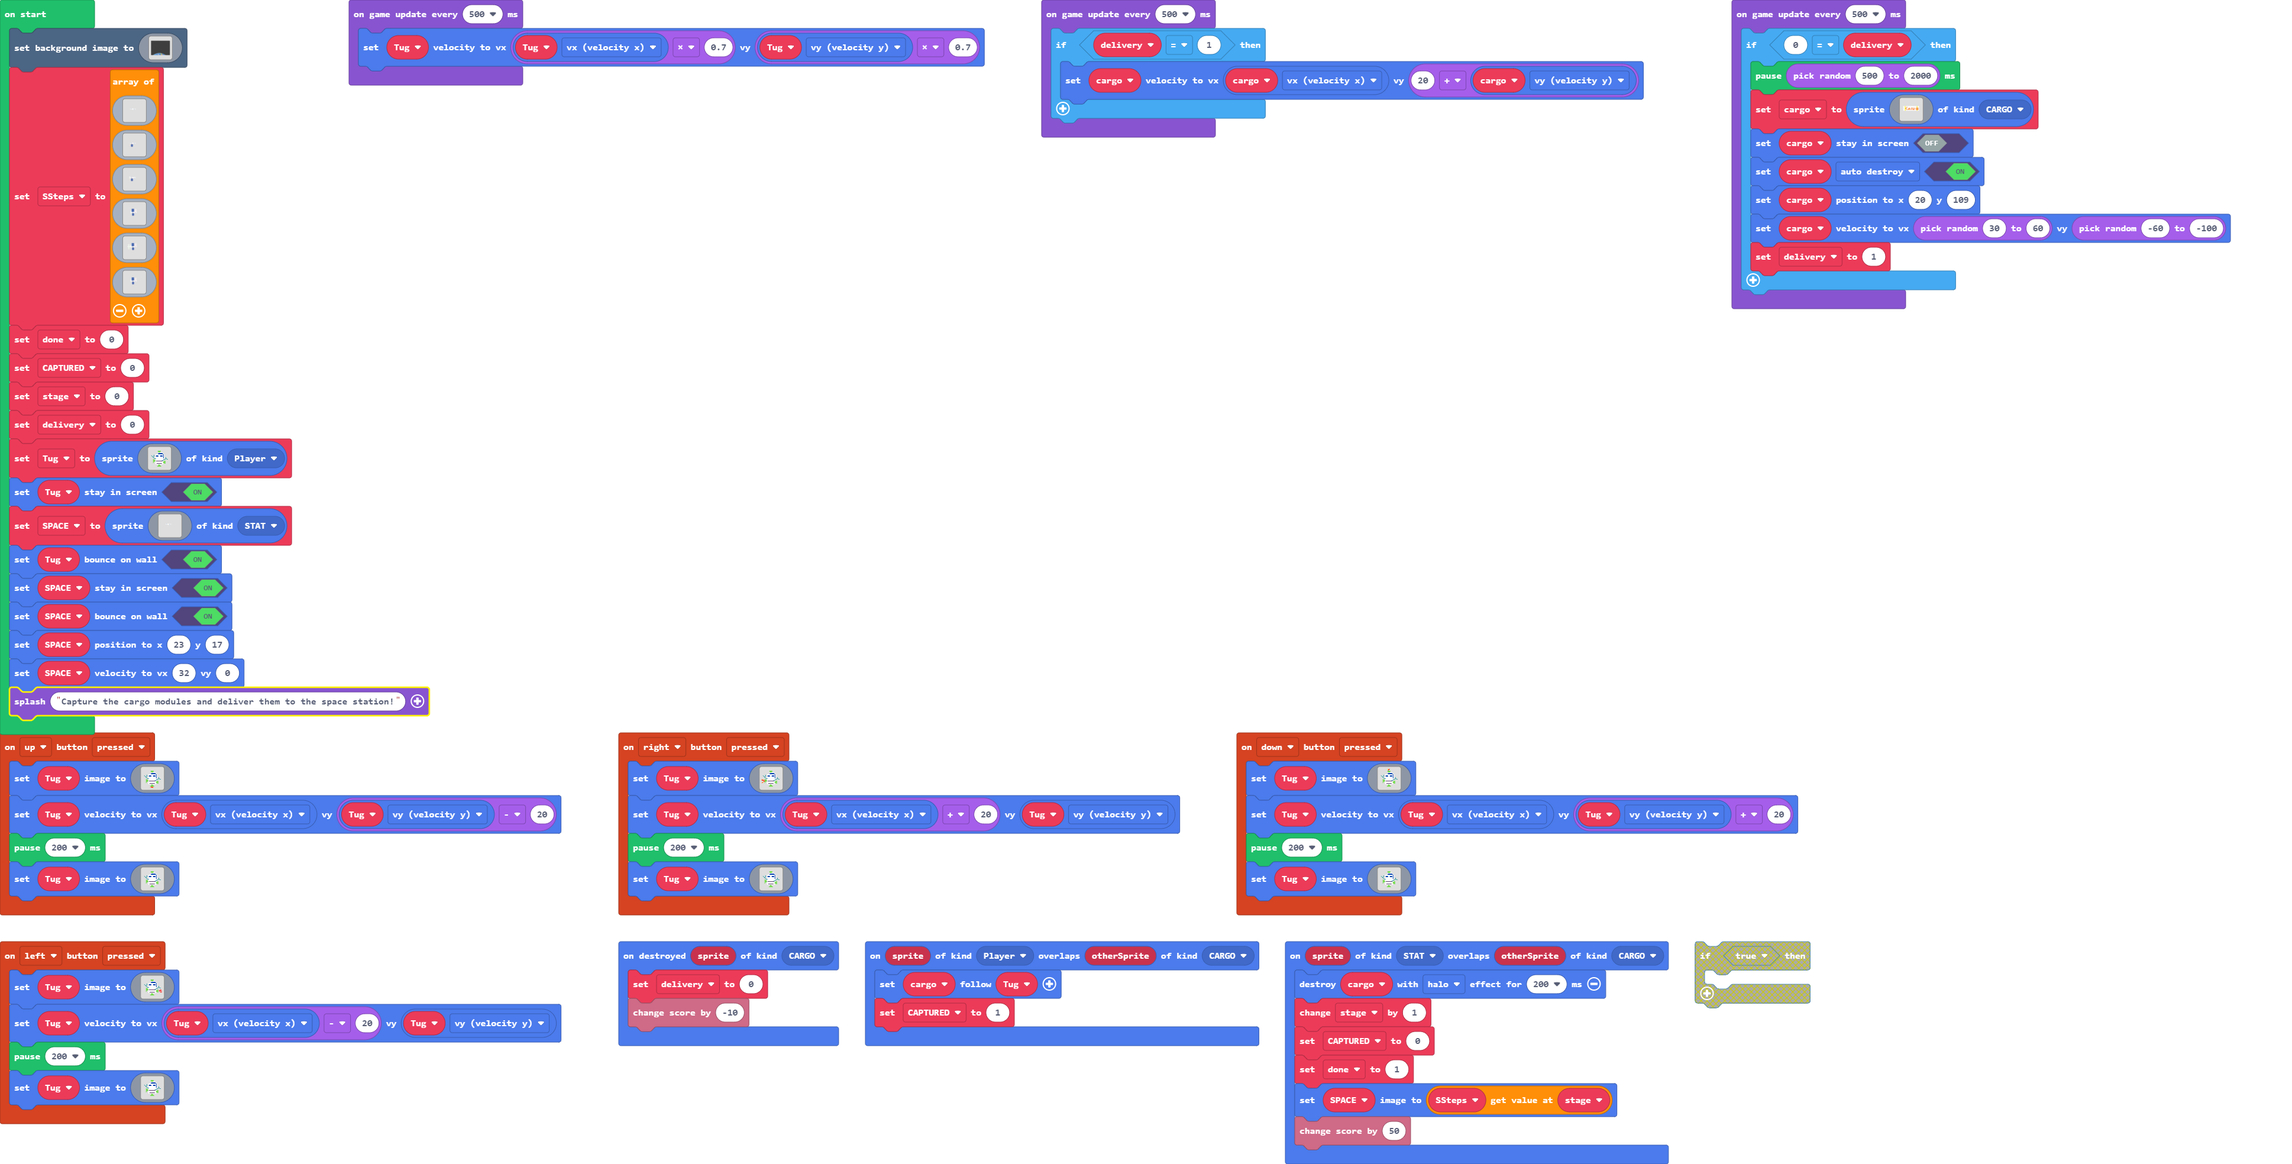
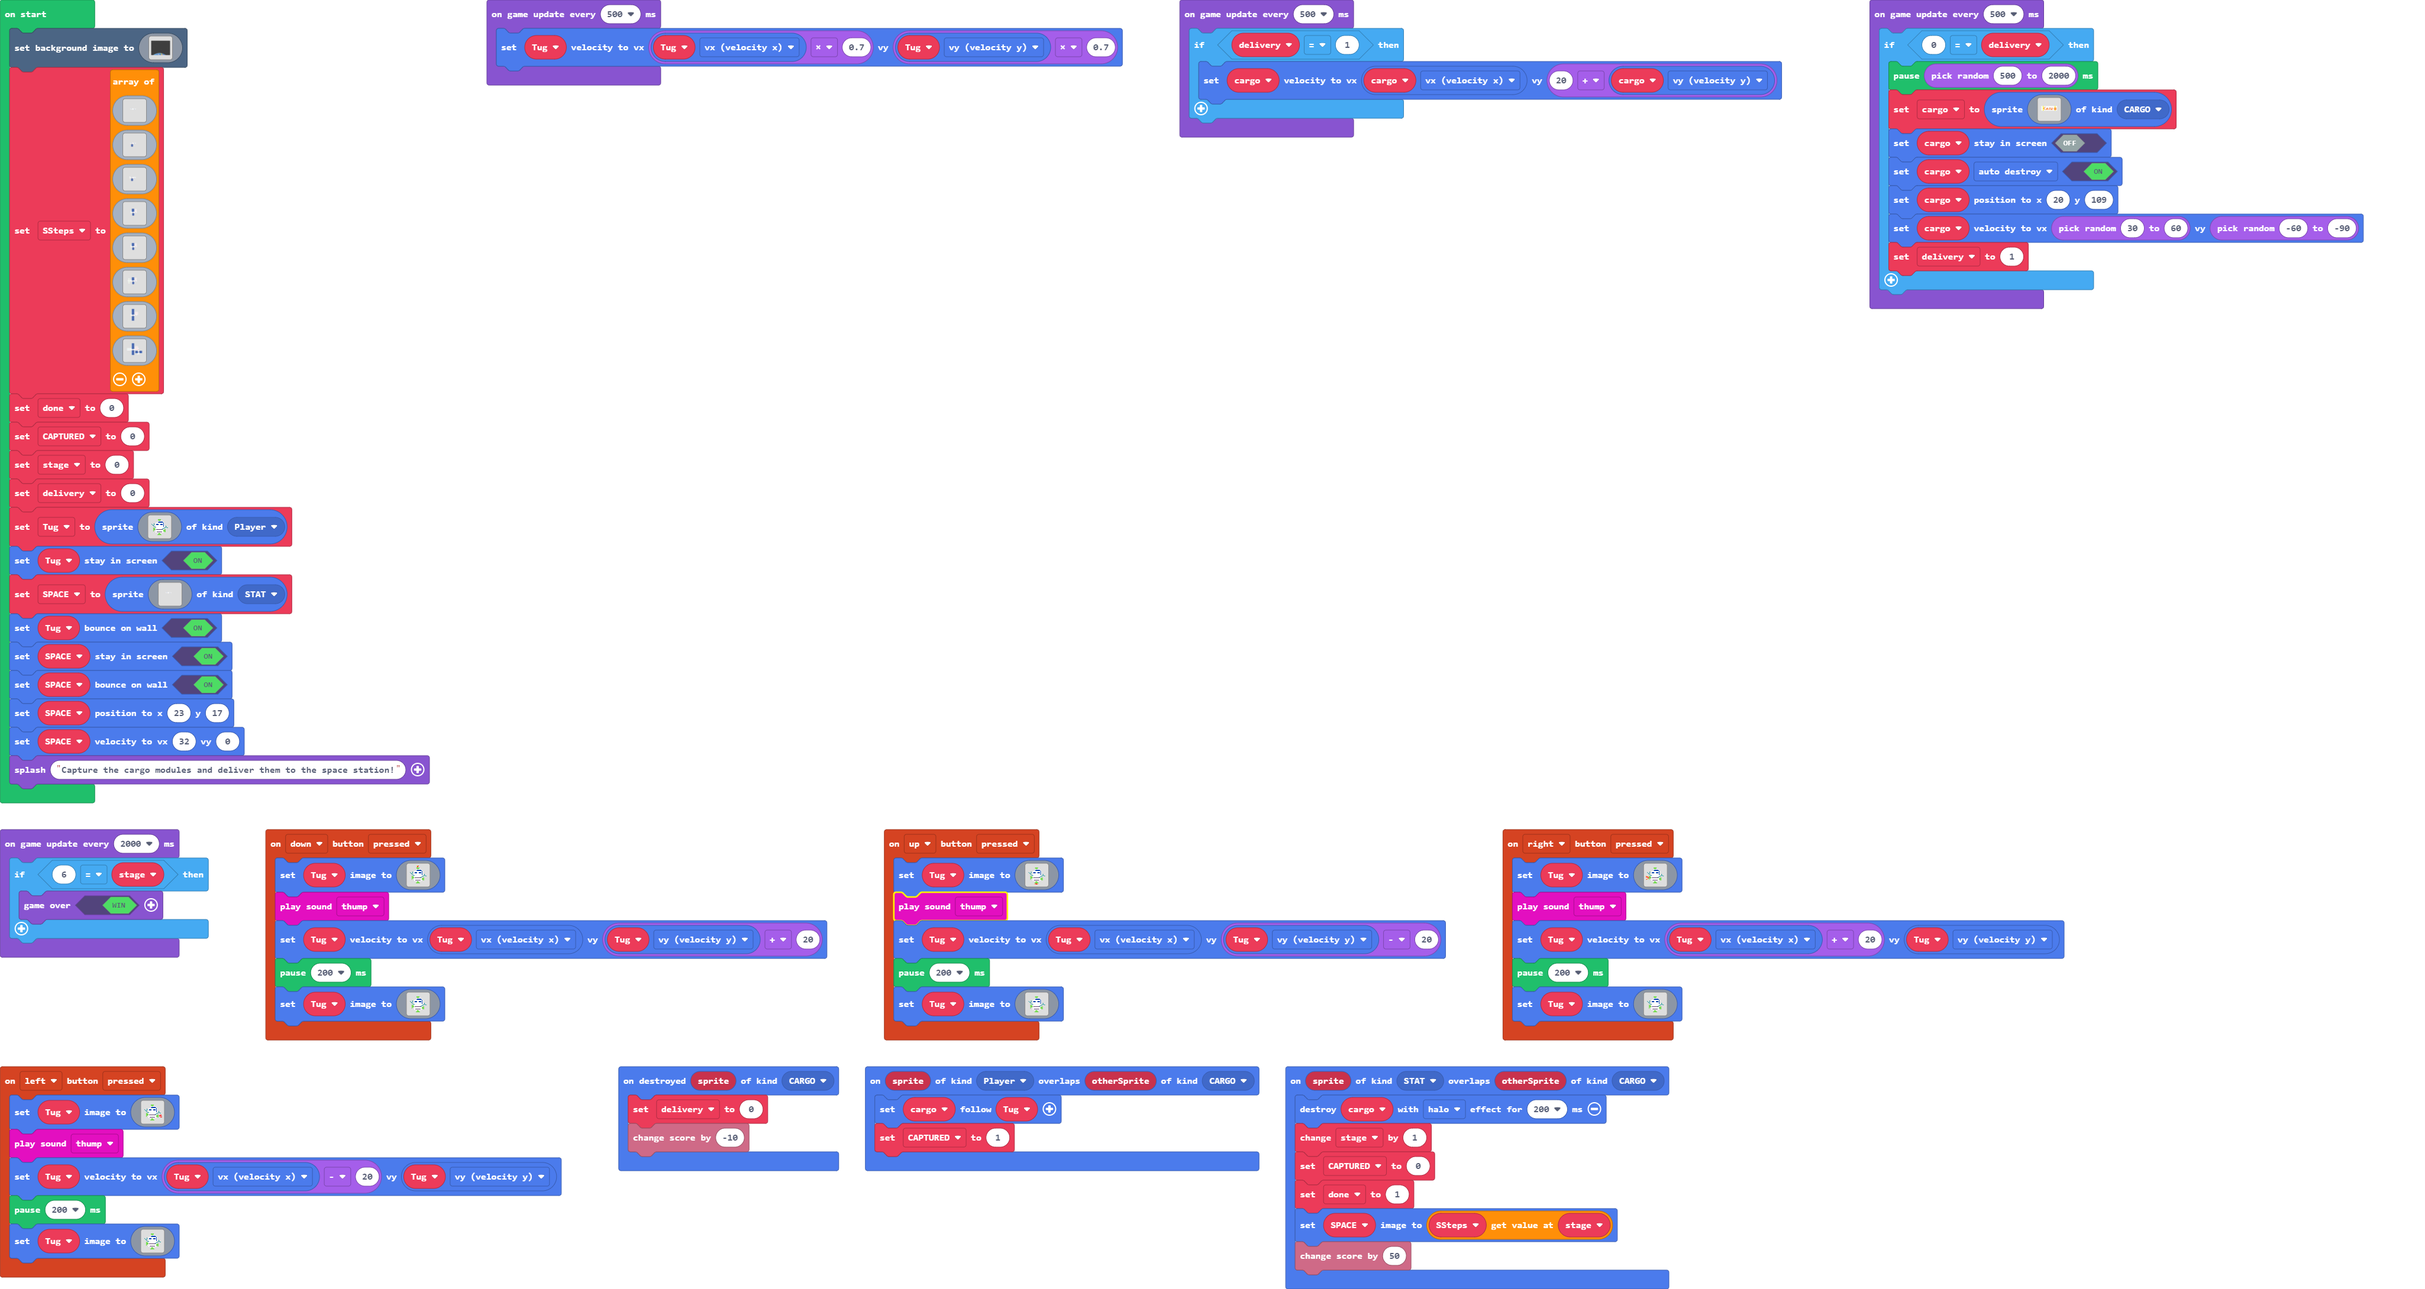
Update main.blocks, main.ts, images.g.jres, images.g.ts

Changed region(s): [[0.0, 0.0, 0.8743, 1.0], [0.1249, 0.0, 0.9992, 0.279]]

diff --git a/images.g.ts b/images.g.ts
@@ -108,102 +108,6 @@ namespace myImages {
 ..................................................
 ..................................................
 `;
-            case "image5":
-            case "SpaceStation3":return img`
-..................................................
-..................................................
-..................................................
-..................................................
-..................................................
-..................................................
-.....................3............................
-..................................................
-..................................................
-..................................................
-..................................................
-..................888c88..........................
-..................888c88..1111....................
-..................888c88..1211....................
-.........111......888c88..1111....................
-.........111......888c88..1111....................
-.........171......888c88..1211....................
-.........111...11.888c88..1111....................
-.........111..111.888c88..1111....................
-.......111111111111811111112111...................
-.......111711111111111111111111...................
-.........111..111....c11111811....................
-.........111...11....c............................
-.........111.......88c88..........................
-.........171.......88c88..........................
-.........111.......88c88..........................
-.........111.......88c88..........................
-...................88c88..........................
-...................88c88..........................
-.....................c............................
-..................................................
-..................................................
-..................................................
-..................................................
-..................................................
-..................................................
-..................................................
-..................................................
-..................................................
-..................................................
-..................................................
-..................................................
-..................................................
-..................................................
-..................................................
-`;
-            case "image6":
-            case "SpaceStation4":return img`
-..................................................
-..................................................
-..................................................
-..................................................
-..................................................
-..................................................
-..................................................
-..................................................
-..................................................
-..................................................
-..................................................
-..................888c88..........................
-..................888c88..1111....................
-..................888c88..1211....................
-..................888c88..1111....................
-..................888c88..1111....................
-..................888c88..1211....................
-...............11.888c88..1111....................
-...............11.888c88..1111....................
-...............1111811111112111...................
-...............1111111111111111...................
-...............11....c11111811....................
-...............11....c............................
-...................88c88..........................
-...................88c88..........................
-...................88c88..........................
-...................88c88..........................
-...................88c88..........................
-...................88c88..........................
-.....................c............................
-..................................................
-..................................................
-..................................................
-..................................................
-..................................................
-..................................................
-..................................................
-..................................................
-..................................................
-..................................................
-..................................................
-..................................................
-..................................................
-..................................................
-..................................................
-`;
             case "image7":
             case "myImage":return img`
 .......................
@@ -416,6 +320,198 @@ namespace myImages {
 ........................
 ........................
 ........................
+`;
+            case "image6":
+            case "SpaceStation5":return img`
+..................................................
+..................................................
+..................................................
+..................................................
+..................888c88..........................
+..................888c88..........................
+..................888c88..........................
+..................888c88..........................
+..................888c88..........................
+..................888c88..........................
+..................888c88..........................
+..................888c88..........................
+..................888c88..11111111................
+..................888c88..12111211................
+..................888c88..11111111................
+..................888c88..11111111................
+..................888c88..12111211................
+...............11.888c88..11111111................
+...............11.888c88..11111111................
+...............1111811111112111...................
+...............1111111111111111...................
+...............11....c11111811....................
+...............11....c............................
+..................888c88..........................
+..................888c88..........................
+..................888c88..........................
+..................888c88..........................
+..................888c88..........................
+..................888c88..........................
+..................888c88..........................
+..................888c88..........................
+..................888c88..........................
+..................888c88..........................
+..................888c88..........................
+..................888c88..........................
+..................................................
+..................................................
+..................................................
+..................................................
+..................................................
+..................................................
+..................................................
+..................................................
+..................................................
+..................................................
+`;
+            case "image14":
+            case "SpaceStation4":return img`
+..................................................
+..................................................
+..................................................
+..................................................
+..................................................
+..................................................
+..................................................
+..................................................
+..................................................
+..................................................
+..................................................
+..................888c88..........................
+..................888c88..1111....................
+..................888c88..1211....................
+..................888c88..1111....................
+..................888c88..1111....................
+..................888c88..1211....................
+...............11.888c88..1111....................
+...............11.888c88..1111....................
+...............1111811111112111...................
+...............1111111111111111...................
+...............11....c11111811....................
+...............11....c............................
+...................88c88..........................
+...................88c88..........................
+...................88c88..........................
+...................88c88..........................
+...................88c88..........................
+...................88c88..........................
+.....................c............................
+..................................................
+..................................................
+..................................................
+..................................................
+..................................................
+..................................................
+..................................................
+..................................................
+..................................................
+..................................................
+..................................................
+..................................................
+..................................................
+..................................................
+..................................................
+`;
+            case "image15":
+            case "SpaceStation6":return img`
+..................................................
+..................................................
+..................................................
+..................................................
+..................888c88..........................
+..................888c88..........................
+..................888c88..........................
+..................888c88..........................
+..................888c88..........................
+..................888c88..........................
+..................888c88..........................
+..................888c88..........................
+..................888c88..11111111................
+..................888c88..12111211................
+..................888c88..11111111................
+..................888c88..11111111................
+..................888c88..11211211................
+.....111111111111.888c88..1111111111..............
+.....111111111111.888c88..11111111111.............
+.....16116116111111811111111111111111.............
+.....11111111111111111111111211211218.............
+.....111111111111....c111111111111111.............
+.....111111111111....c............111.............
+..................888c88..........111.............
+..................888c88...8888888111.8888888.....
+..................888c88...8888888111.8888888.....
+..................888c88...ccccccc11ccccccccc.....
+..................888c88...888888811..8888888.....
+..................888c88...888888881..8888888.....
+..................888c88...888888811..8888888.....
+..................888c88..........11..............
+..................888c88........111111............
+..................888c88........111111............
+..................888c88..........................
+..................888c88..........................
+..................................................
+..................................................
+..................................................
+..................................................
+..................................................
+..................................................
+..................................................
+..................................................
+..................................................
+..................................................
+`;
+            case "image5":
+            case "SpaceStation3":return img`
+..................................................
+..................................................
+..................................................
+..................................................
+..................................................
+..................................................
+..................................................
+..................................................
+..................................................
+..................................................
+..................................................
+..................888c88..........................
+..................888c88..1111....................
+..................888c88..1211....................
+.........111......888c88..1111....................
+.........111......888c88..1111....................
+.........171......888c88..1211....................
+.........111...11.888c88..1111....................
+.........111..111.888c88..1111....................
+.......111111111111811111112111...................
+.......111711111111111111111111...................
+.........111..111....c11111811....................
+.........111...11....c............................
+.........111.......88c88..........................
+.........171.......88c88..........................
+.........111.......88c88..........................
+.........111.......88c88..........................
+...................88c88..........................
+...................88c88..........................
+.....................c............................
+..................................................
+..................................................
+..................................................
+..................................................
+..................................................
+..................................................
+..................................................
+..................................................
+..................................................
+..................................................
+..................................................
+..................................................
+..................................................
+..................................................
+..................................................
 `;
         }
         return null;

diff --git a/main.ts b/main.ts
@@ -4,18 +4,21 @@ namespace SpriteKind {
 }
 controller.up.onEvent(ControllerButtonEvent.Pressed, function () {
     Tug.setImage(assets.image`SpaceTugS`)
+    music.thump.play()
     Tug.setVelocity(Tug.vx, Tug.vy - 20)
     pause(200)
     Tug.setImage(assets.image`SpaceTug`)
 })
 controller.left.onEvent(ControllerButtonEvent.Pressed, function () {
     Tug.setImage(assets.image`SpaceTugE`)
+    music.thump.play()
     Tug.setVelocity(Tug.vx - 20, Tug.vy)
     pause(200)
     Tug.setImage(assets.image`SpaceTug`)
 })
 controller.right.onEvent(ControllerButtonEvent.Pressed, function () {
     Tug.setImage(assets.image`SpaceTugW`)
+    music.thump.play()
     Tug.setVelocity(Tug.vx + 20, Tug.vy)
     pause(200)
     Tug.setImage(assets.image`SpaceTug`)
@@ -30,6 +33,7 @@ sprites.onOverlap(SpriteKind.STAT, SpriteKind.CARGO, function (sprite, otherSpri
 })
 controller.down.onEvent(ControllerButtonEvent.Pressed, function () {
     Tug.setImage(assets.image`SpaceTugN`)
+    music.thump.play()
     Tug.setVelocity(Tug.vx, Tug.vy + 20)
     pause(200)
     Tug.setImage(assets.image`SpaceTug`)
@@ -177,8 +181,10 @@ assets.image`SpaceStation`,
 assets.image`SpaceStation0`,
 assets.image`SpaceStation1`,
 assets.image`SpaceStation2`,
+assets.image`SpaceStation4`,
 assets.image`SpaceStation3`,
-assets.image`SpaceStation4`
+assets.image`SpaceStation5`,
+assets.image`SpaceStation6`
 ]
 done = 0
 CAPTURED = 0
@@ -193,6 +199,11 @@ SPACE.setBounceOnWall(true)
 SPACE.setPosition(23, 17)
 SPACE.setVelocity(32, 0)
 game.splash("Capture the cargo modules and deliver them to the space station!")
+game.onUpdateInterval(2000, function () {
+    if (6 == stage) {
+        game.over(true)
+    }
+})
 game.onUpdateInterval(500, function () {
     Tug.setVelocity(Tug.vx * 0.7, Tug.vy * 0.7)
 })
@@ -208,7 +219,7 @@ game.onUpdateInterval(500, function () {
         cargo.setStayInScreen(false)
         cargo.setFlag(SpriteFlag.AutoDestroy, true)
         cargo.setPosition(20, 109)
-        cargo.setVelocity(randint(30, 60), randint(-60, -100))
+        cargo.setVelocity(randint(30, 60), randint(-60, -90))
         delivery = 1
     }
 })
